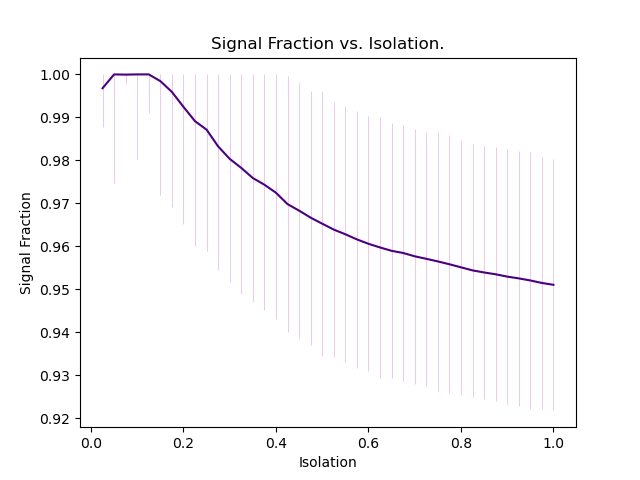
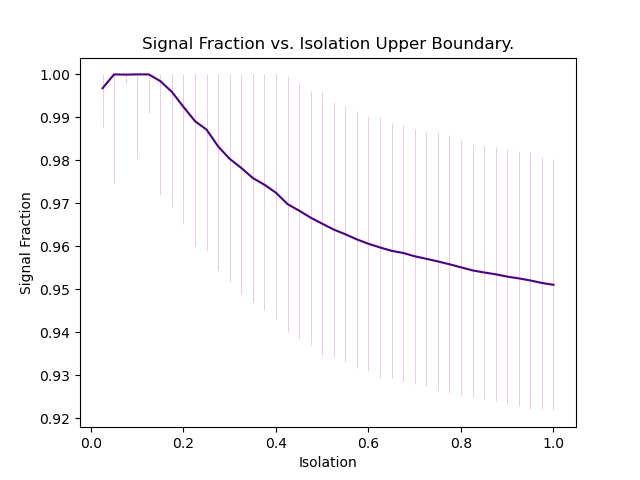
Signal vs. Isolation Generated.

Changed region(s): [[0.2188, 0.0625, 0.8125, 0.125]]

diff --git a/plot.py b/plot.py
@@ -15,7 +15,7 @@ def fitted_histogram(
     hist_only: bool = False,
     display_parameters: bool = False,
     display_signal: bool = False,
-    return_signal: bool = False
+    return_signal_only: bool = False
 ):
     """
     Generates fitted histogram from given constraints.
@@ -57,7 +57,7 @@ def fitted_histogram(
     plt.yticks(np.linspace(0, plt.yticks()[0][-1], num=len(ytick_original)), ytick_original)
     plt.ylabel("Entities / bin")
     if iso_upper_bound == np.inf:
-        plt.title("Muons Invariant Mass")
+        plt.title("Muons Invariant Mass — Any Isolation")
     else:
         plt.title("Muons Invariant Mass — Isolation <" + str(iso_upper_bound))
 
@@ -125,6 +125,7 @@ def fitted_histogram(
         linestyle='dashed', 
         label="Sig.+Backg."
     )
+    
     plt.plot(
         x_vals, 
         (1 - parameters[0]) * f_fall(x_vals, parameters[2], parameters[5]),
@@ -132,6 +133,7 @@ def fitted_histogram(
         linestyle='dotted',
         label="Background"
     )
+    
     # Extracting signal and its uncertainty the prarmeters. 
     signal_fraction = parameters[0]
     signal_uncertain = np.sqrt(parameter_variance[0, 0])
@@ -144,7 +146,7 @@ def fitted_histogram(
             "SF Uncertainty: % " 
             + str(round(100*signal_uncertain, 12)) 
         )
-    if return_signal:
+    if return_signal_only:
         return signal_fraction, signal_uncertain
     
     # Labeling histogram and corresponding legend. 
@@ -158,29 +160,29 @@ def fitted_histogram(
             + "{:.3f}".format(signal_uncertain)[1:])
     plt.savefig("plots\\" + hist_name + ".png")
     return signal_fraction, signal_uncertain
-plt.clf()
+
 
 sf=[]
 su=[]
 iso_rng=[.025*i for i in range(1, 41)]
 for iso in iso_rng:
-    print("")
-    print(20*'*')
-    print("Isolation upper boundary:", iso)
     fraction, uncertainty = fitted_histogram(
         iso_upper_bound=iso,
         display_signal=True,
-        return_signal=True
+        return_signal_only=True
     )
+    
     plt.clf()
     sf.append(fraction)
     su.append(uncertainty)
+    print("")
+    print(20*'*')
+    print("Isolation upper boundary:", iso)
 
 
 print("")
 print(20*"*")
 print(sf)
-
 sf = np.array(sf)
 su = np.vstack((
     np.array(su),
@@ -190,7 +192,6 @@ su = np.vstack((
 for i,u in enumerate(su[1,:]):
     if sf[i] + u > 1:
         su[1,i] = 1 - sf[i]
-
 
 print(10*"*")
 print("sf:")
@@ -207,7 +208,8 @@ plt.errorbar(
     ecolor='plum',
     elinewidth=0.4
 )
+
 plt.xlabel("Isolation")
 plt.ylabel("Signal Fraction")
-plt.title("Signal Fraction vs. Isolation.")
+plt.title("Signal Fraction vs. Isolation Upper Boundary.")
 plt.savefig("plots\\signal_vs_iso.png")
